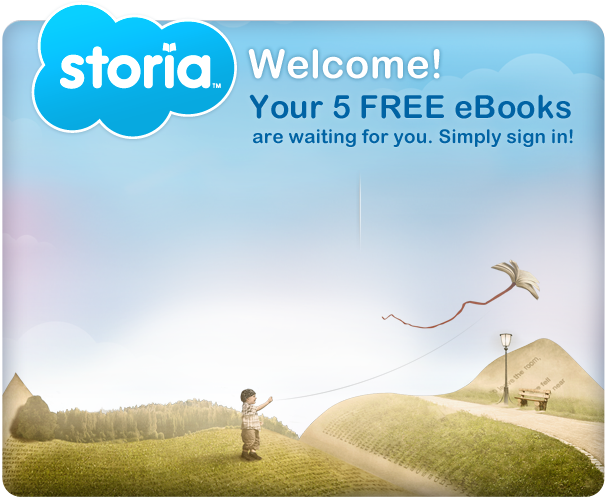
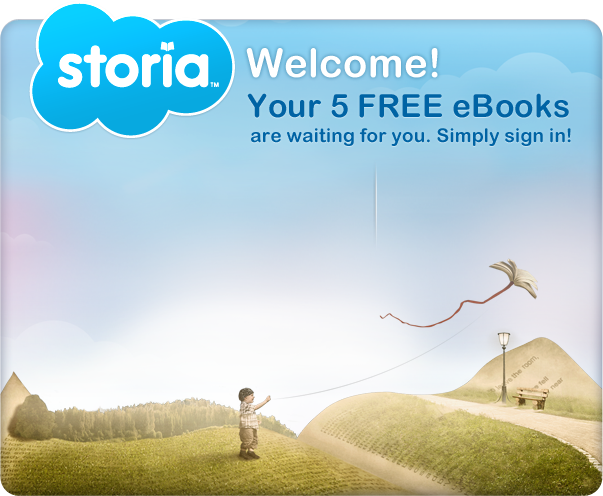
Updated retina iPad login graphics

diff --git a/Shared/SCHStartingViewController.m b/Shared/SCHStartingViewController.m
@@ -642,7 +642,7 @@ static const NSTimeInterval kSCHStartingViewControllerNonForcedAlertInterval = (
             BITModalSheetController *aLoginPopoverController = [[BITModalSheetController alloc] initWithContentViewController:login];
             [aLoginPopoverController setAutoresizingMask:UIViewAutoresizingFlexibleLeftMargin | UIViewAutoresizingFlexibleRightMargin | UIViewAutoresizingFlexibleBottomMargin];
             
-            [aLoginPopoverController setContentSize:CGSizeMake(605, 497)];
+            [aLoginPopoverController setContentSize:CGSizeMake(603, 496)];
             CGPoint offset;
             
             if (UIInterfaceOrientationIsPortrait(self.interfaceOrientation)) {
